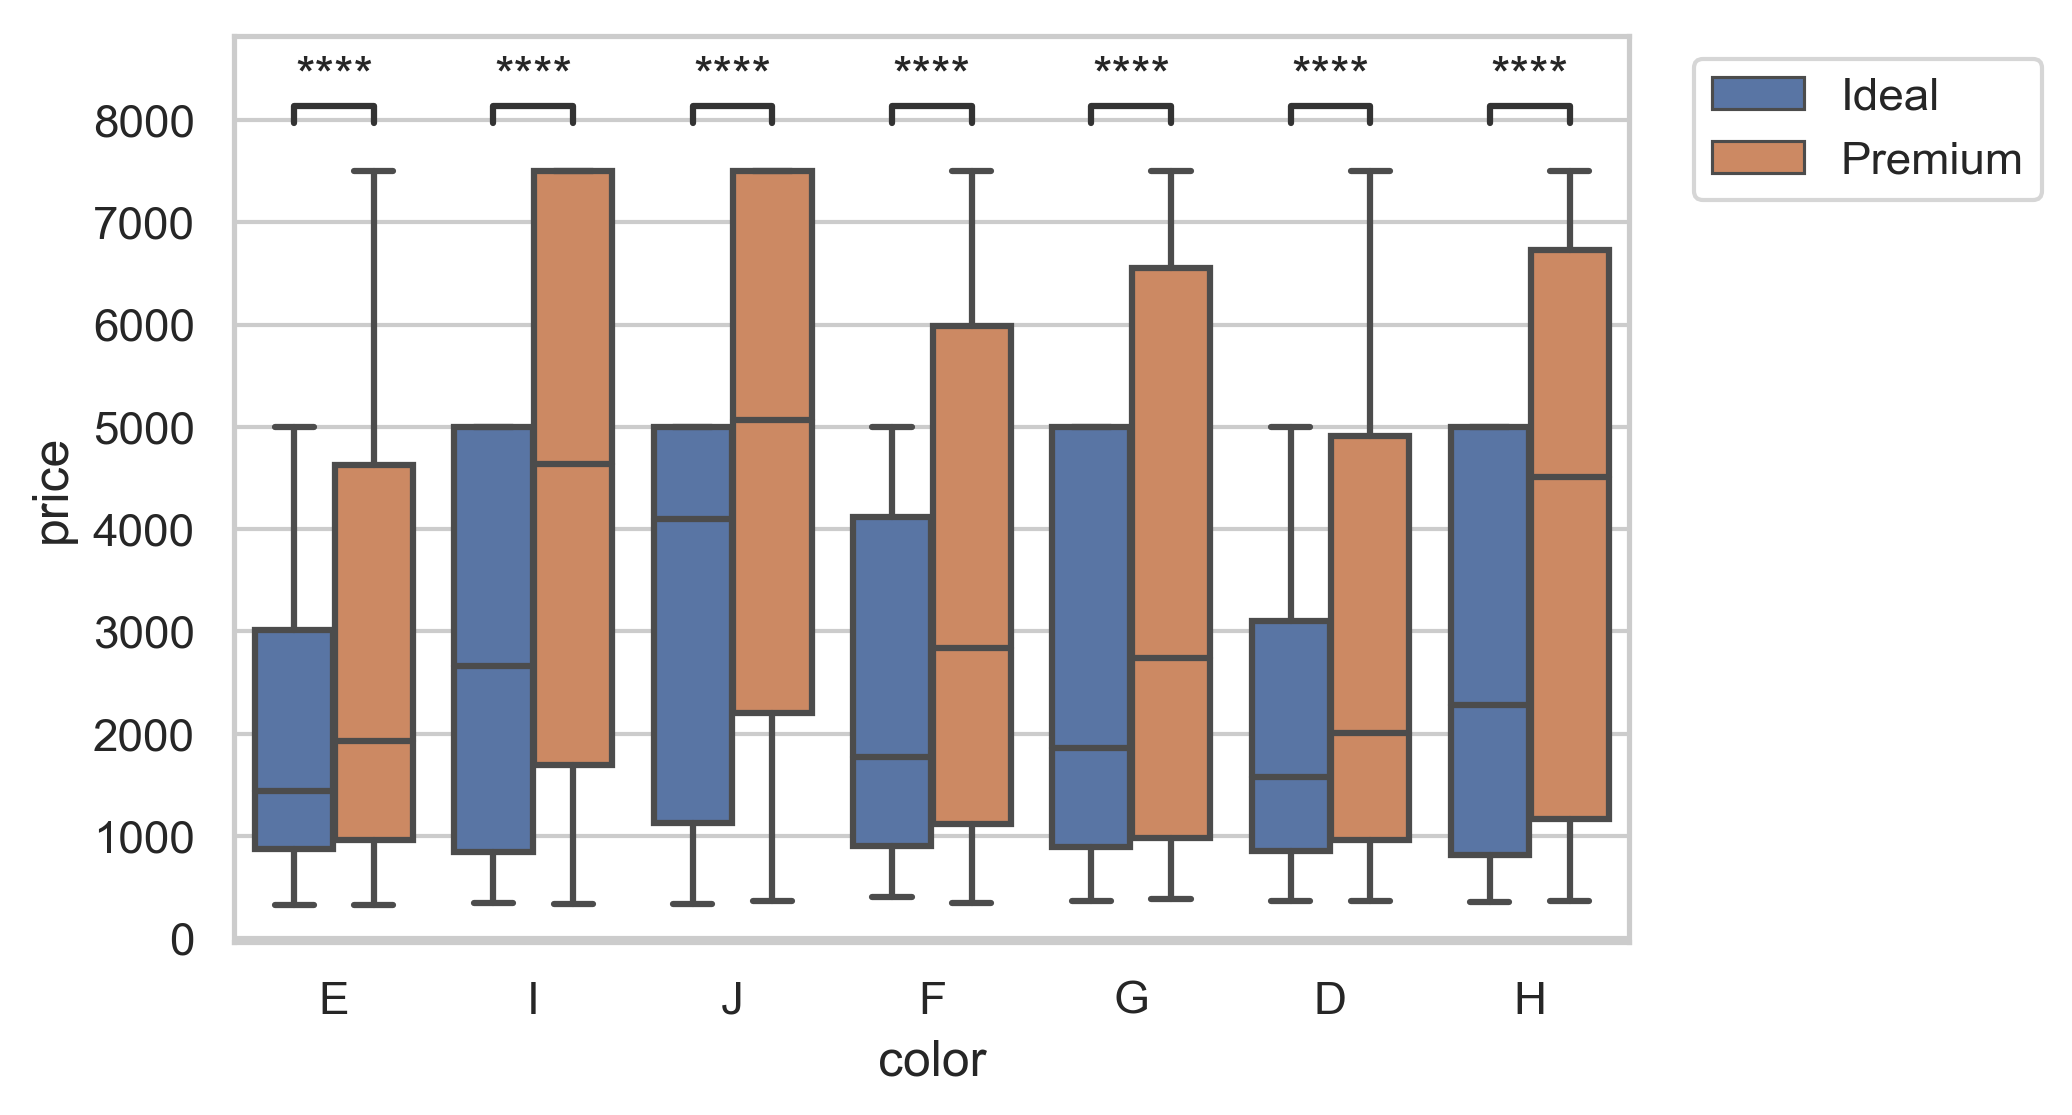
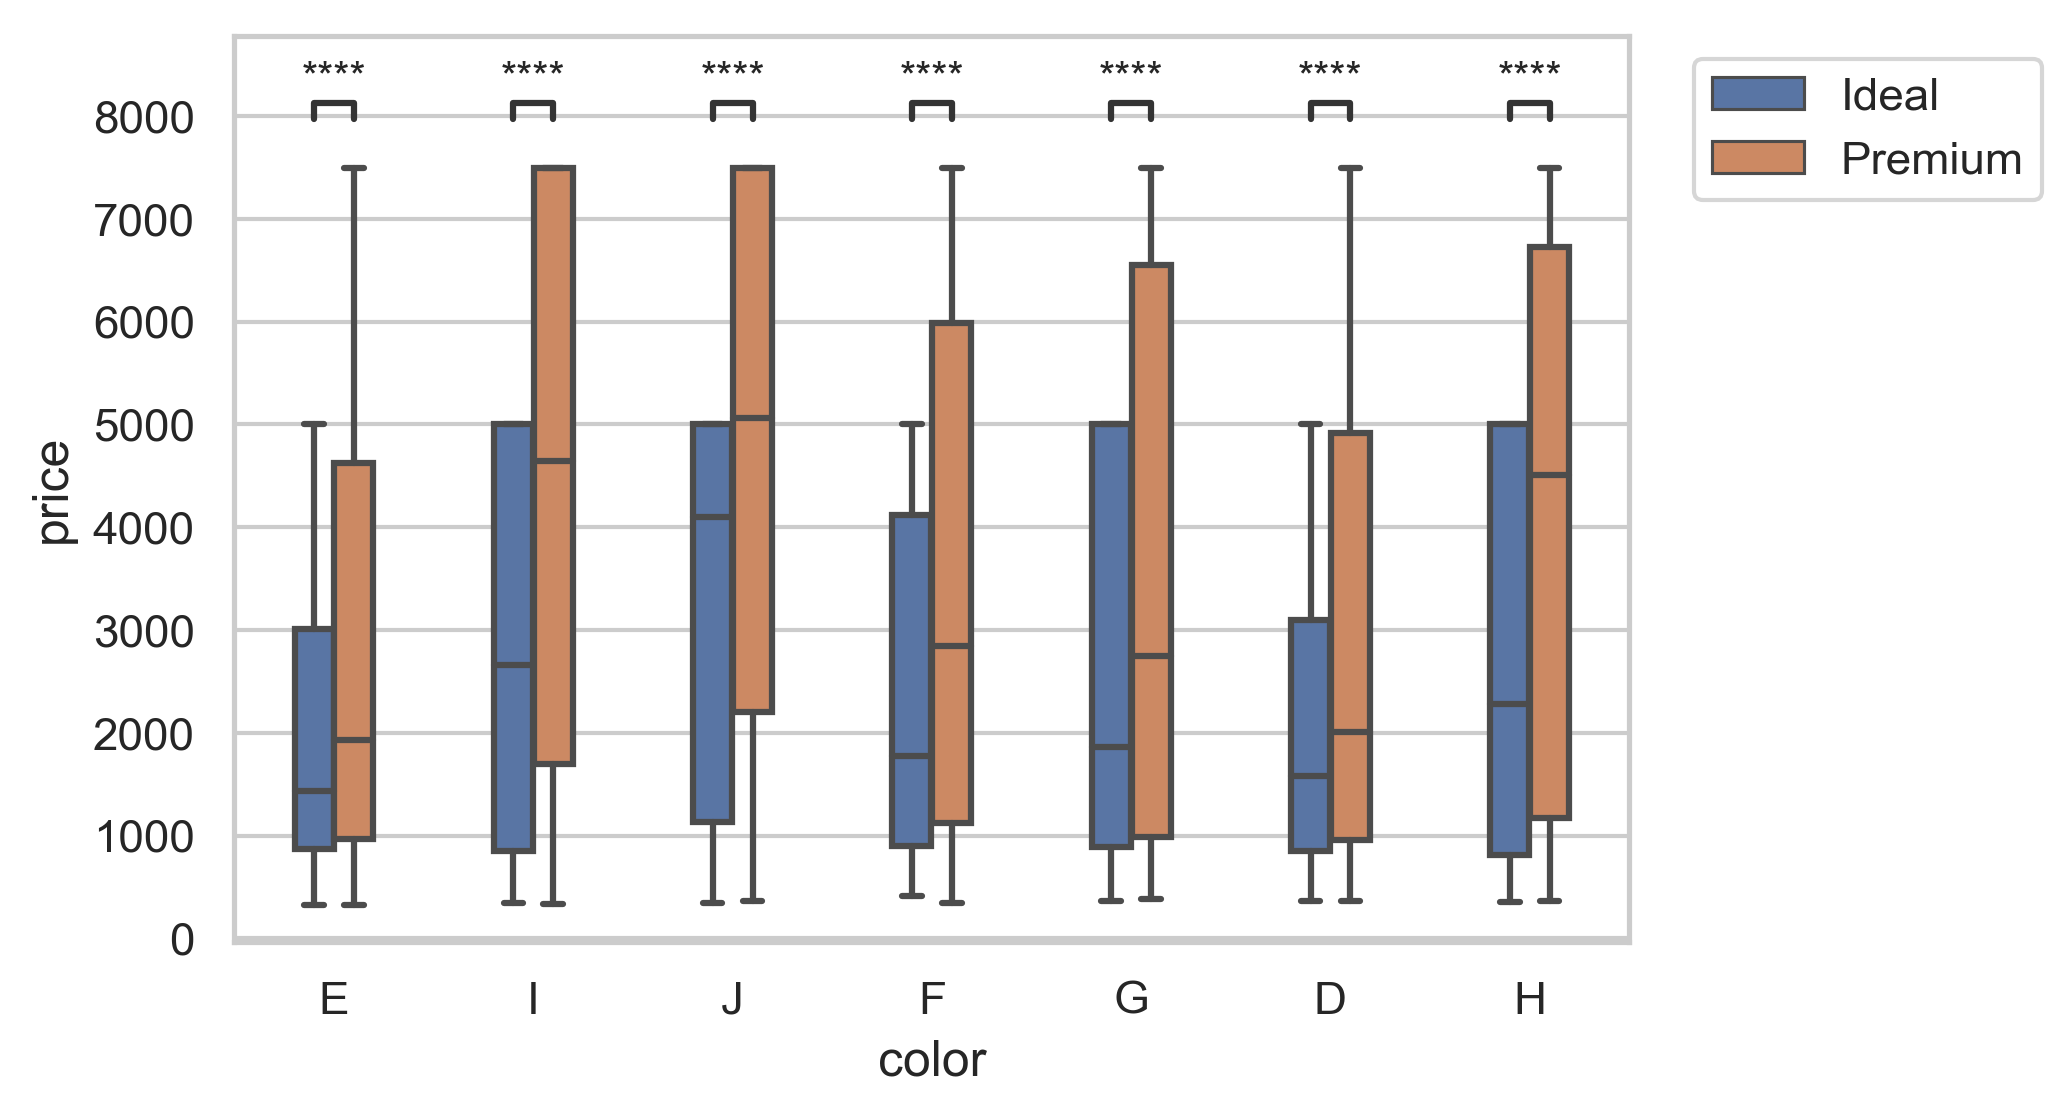
fix: add argument `width`
Add `width` argument to the `add_stat_annotation` function to match seaborn boxplot argument and correctly compute the x position of the boxes. Fixes #35.

diff --git a/statannot/statannot.py b/statannot/statannot.py
@@ -124,7 +124,7 @@ def simple_text(pval, pvalue_format, pvalue_thresholds, test_short_name=None):
 
 def add_stat_annotation(ax,
                         data=None, x=None, y=None, hue=None, order=None,
-                        hue_order=None, box_pairs=None,
+                        hue_order=None, box_pairs=None, width=0.8,
                         perform_stat_test=True,
                         pvalues=None, test_short_name=None,
                         test=None, text_format='star', pvalue_format_string=DEFAULT,
@@ -280,7 +280,7 @@ def add_stat_annotation(ax,
 
     # Create the same BoxPlotter object as seaborn's boxplot
     box_plotter = sns.categorical._BoxPlotter(
-        x, y, hue, data, order, hue_order, orient=None, width=.8, color=None,
+        x, y, hue, data, order, hue_order, orient=None, width=width, color=None,
         palette=None, saturation=.75, dodge=True, fliersize=5, linewidth=None)
 
     # Build the list of box data structures with the x and ymax positions

diff --git a/setup.py b/setup.py
@@ -4,7 +4,7 @@ from setuptools import find_packages
 
 setup(
     name="statannot",
-    version="0.2.0",
+    version="0.2.1",
     packages=find_packages(),
     install_requires=open("requirements.txt").readlines(),
     python_requires='>=3.5',
